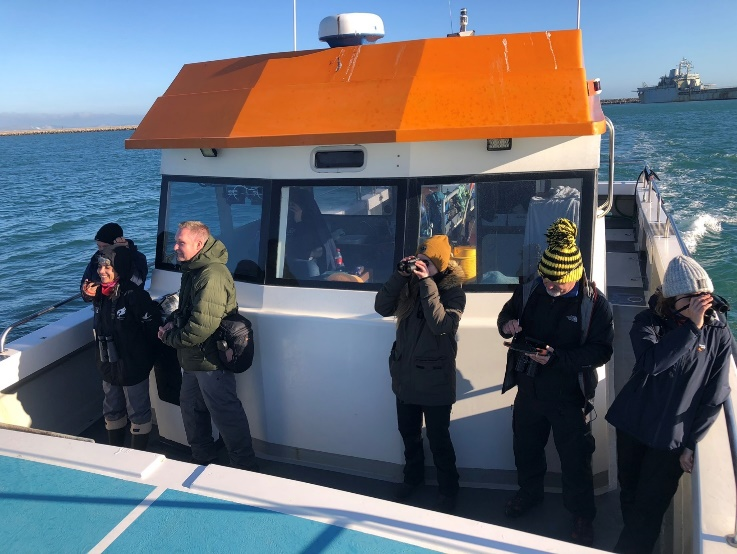
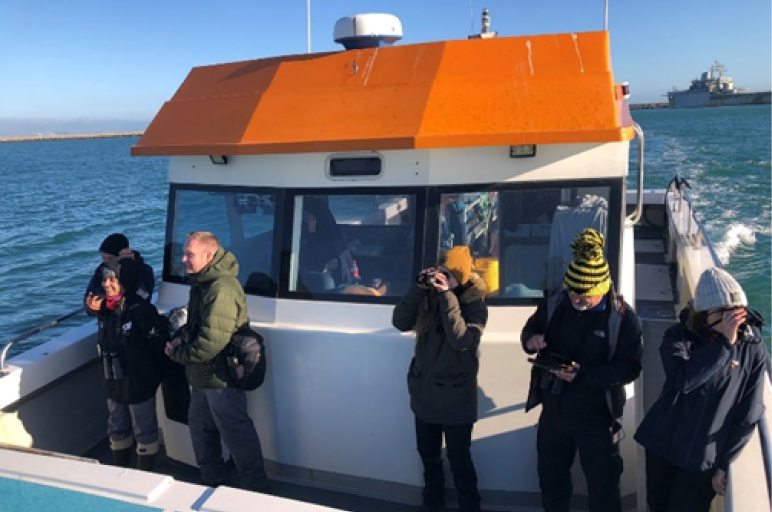
fix(pages): Case Study Images Size Consistency
- Align Case Study all images with similar hight.
- Added divider line missing above Product Bruchure section.
o
IssueID #NCEA-401

diff --git a/public/css/categories_detail.css b/public/css/categories_detail.css
@@ -4,61 +4,137 @@
   max-width: 500px;
   margin: 0;
   display: flex;
-  align-items: flex-start;    /* vertical alignment */
-  justify-content: flex-start; /* horizontal alignment */
+  align-items: flex-start;
+  justify-content: flex-start;
 }
+
 .video-container iframe {
-    width: 60%;
-    height: 250px;
+  width: 60%;
+  height: 250px;
 }
+
 .video-caption {
-    text-align: left;
-    font-size: 0.9rem;
-    color: #555;
-    margin-top: 8px;
-    margin-bottom:18px;
+  text-align: left;
+  font-size: 0.9rem;
+  color: #555;
+  margin-top: 8px;
+  margin-bottom: 18px;
 }
+
+@media (max-width: 768px) {
+  .video-container {
+    max-width: 100%;
+  }
+
+  .video-container iframe {
+    width: 100%;
+    height: 200px;
+  }
+}
+
 .landingPage__partnersLogo-wrapper {
   display: flex;
-  align-items: flex-start; /* KEY: aligns image & text at the top */
-  gap: 24px;
+  align-items: stretch;
 }
-.landingPage__partnersLogo-rightsection {
-  flex: 0 0 200px; /* fixed width for image column */
-  margin-top: -20px !important;
+
+.landingPage__partnersLogo-wrapper .landingPage__partnersLogo-rightsection {
+  flex: 0 0 33%;
+  max-width: 342px;
+  padding: 0;
+  margin: 0;
+  line-height: 0;
+  display: flex;
 }
-.case-study-image {
-  max-width: 100%;
-  height: auto;
-  display: block;
-}
+
 .landingPage__partnersLogo-leftsection {
   flex: 1;
+  display: flex;
+  flex-direction: column;
 }
-.educational-copy-container__heading-m {
-    border-top:2.5px solid #008938 !important;
-} 
-p.first-desc {
-  margin-top: -25px !important;
+
+.case-study-image-1 {
+  width: 92%;
+  height: 85%;
+  display: block;
+  margin: 0;
+  padding: 0;
+  object-fit: cover;
 }
-p.cat-video-capt {
-  margin-top: 15px !important;
+
+.case-study-image-2 {
+  width: 91%;
+  height: 84.5%;
+  display: block;
+  margin: 0;
+  padding: 0;
+  object-fit: cover;
 }
-ul li.cat-dts-li {
-  padding-top: 08px;
+
+.case-study-image-3 {
+  width: 92%;
+  height: 95%;
+  display: block;
+  margin: 0;
+  padding: 0;
+  object-fit: cover;
 }
-.cate-featured-datasets a.govuk-link {
+
+.case-study-description {
+  display: -webkit-box;
+  -webkit-line-clamp: 8;
+  line-clamp: 8;
+  -webkit-box-orient: vertical;
+  overflow: hidden;
+  text-overflow: ellipsis;
+}
+
+.landingPage__partnersLogo-leftsection p strong {
+  text-decoration: underline;
+}
+
+@media (max-width: 768px) {
+  .landingPage__partnersLogo-wrapper {
+    flex-direction: column;
+  }
+
+  .landingPage__partnersLogo-wrapper .landingPage__partnersLogo-rightsection {
+    flex: 1 1 auto;
+    max-width: 100%;
+    margin-top: 0;
+  }
+}
+
+.landingPage .educational-copy-container__heading-m {
+  border-top: 2px solid #008938;
+}
+
+.landingPage p.first-desc {
+  margin-top: -25px;
+}
+
+.landingPage p.cat-video-capt {
+  margin-top: 15px;
+}
+
+.landingPage ul li.cat-dts-li {
+  padding-top: 8px;
+}
+
+.landingPage .cate-featured-datasets a.govuk-link {
   color: #0b0c0c;
   align-items: center;
   display: inline-flex;
-  gap: 5px;  
+  gap: 5px;
 }
-.cate-featured-datasets p {
-  margin-bottom: 5px !important;
+
+.landingPage .cate-featured-datasets p {
+  margin-bottom: 5px;
 }
-hr { 
-  border-top: 1.5px #b1b4b6 !important;
-}
-p.cate-pby {
+
+.landingPage p.cate-pby {
   font-size: 16px;
+}
+
+.landingPage hr {
+  border-top: 2px solid #b1b4b6;
 }

diff --git a/src/assets/sass/templates/_home.scss b/src/assets/sass/templates/_home.scss
@@ -29,7 +29,7 @@
   }
 }
 
-.privacy_policy_last_updated{
+.privacy_policy_last_updated {
   color: govuk-colour("dark-grey");
   font-weight: 300;
   line-height: 30px;
@@ -67,6 +67,7 @@
     @include font-style-stack(48px, 50px, 700);
     color: $govuk-text-colour;
   }
+
   &__heading-s {
     @include font-style-stack(24px, 30px, 700);
     color: $govuk-text-colour;
@@ -111,10 +112,11 @@
     }
   }
 }
+
 .data-categories {
   display: grid;
   grid-template-columns: repeat(3, minmax(0, 1fr));
-  gap: 24px;
+  gap: 16px;
   margin-left: 0;
   margin-right: 0;
 
